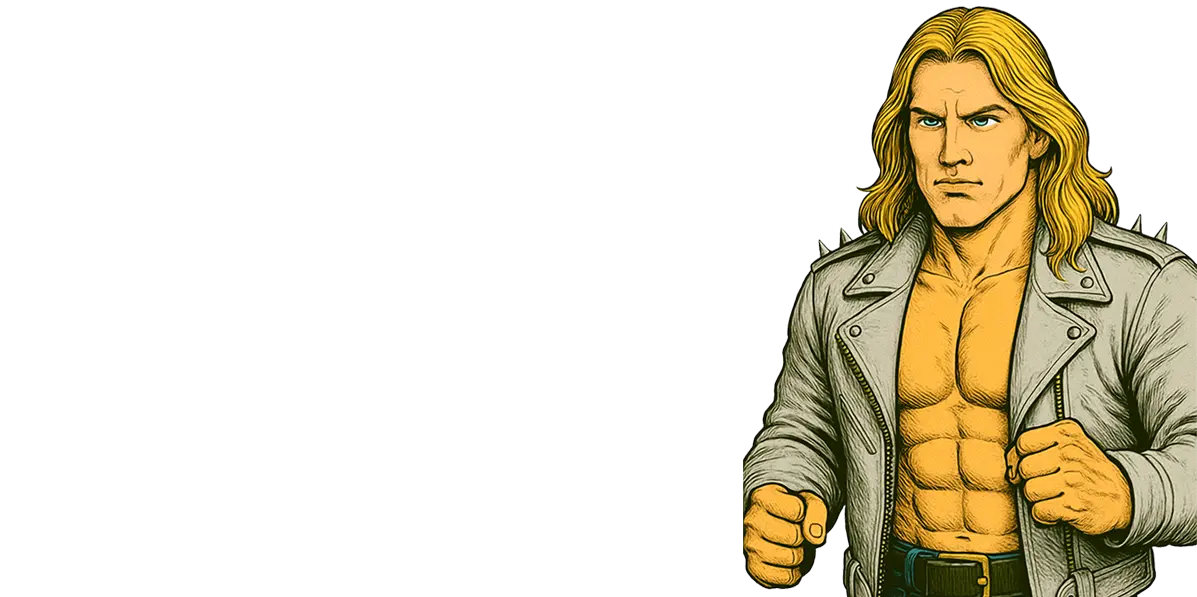
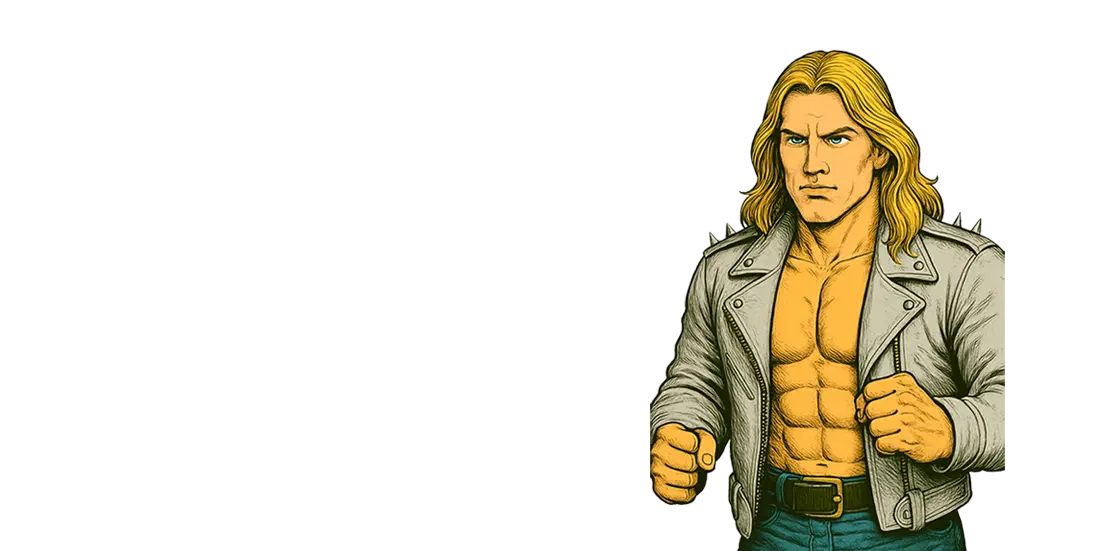
modif img vexxel bigboss

Changed region(s): [[0.5841, 0.0, 1.0, 1.0]]

diff --git a/src/pages/portfolio/parallax1/Parallax1.scss b/src/pages/portfolio/parallax1/Parallax1.scss
@@ -69,11 +69,10 @@
 // BigBoss mask : doit être derrière les persos, devant le logo
 .parallax-mask,
 .parallax-mask-vexxel {
+  width: 400px;
   z-index: 4;
   right: 10%;
-  top: -2%;
-  width: 100%;
-  height: 100%;
+  top: 10%;
   opacity: 0;
   pointer-events: none;
 }
